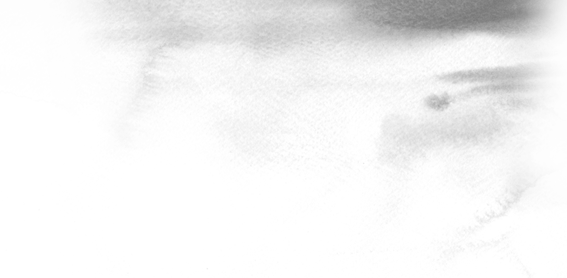
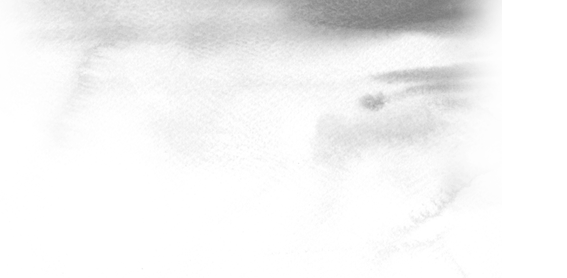
第二次bug

diff --git a/qianduan.css b/qianduan.css
@@ -48,6 +48,7 @@ html,body{
 }
 .rotate {
     animation:rotating 1.2s linear 0s normal none infinite ;
+    -webkit-animation:rotating 1.2s linear 0s normal none infinite;
 }
 
 #list li:nth-child(1){
@@ -94,14 +95,14 @@ html,body{
 
 .scene03 .plum{ width: 227px; height: 302px; opacity: 0; position: absolute; right: 0px; top: 0; background: url(images2/plum3.png) no-repeat; z-index: 38}
 #scene03 .plum{ animation: fadeIn 6.5s forwards 2.5s; -wekit-animation: fadeIn 6.5s forwards 2.5s;}
-.scene03 .mist{ position: absolute; top: 0;}
-.scene03 .mist:nth-child(1){left: 0; transition: 3s;}
-.scene03 .mist:nth-child(2){right: 0; transition: 3s;}
+.scene03 .mist{ position: absolute; top: 0; -webkit-transition: 3s; transition: 3s;}
+.scene03 .mist:nth-child(1){left: 0;}
+.scene03 .mist:nth-child(2){right: 0; text-align: right;}
 #scene03 .mist:nth-child(1){ left: -640px;}
 #scene03 .mist:nth-child(2){ right: -567px;}
-.scene03 .dropsink{ width: 221px; height: 223px; transform-origin: center; opacity: 0; left: 9px; top: 346px; position: absolute; background: url(images2/dropsink2.png) no-repeat; }
+.scene03 .dropsink{ width: 221px; height: 223px; transform-origin: center;-webkit-transform-origin: center; opacity: 0; left: 9px; top: 346px; position: absolute; background: url(images2/dropsink2.png) no-repeat; }
 #scene03 .dropsink{animation: zoomIn_s 4.5s forwards 6s;-webkit-animation: zoomIn_s 4.5s forwards 6s;}
-.scene03 .sun{ width: 100%; height: 138px; background:url(images2/sun.png) no-repeat; z-index: 35; left:580px; position: absolute;}
+.scene03 .sun{ width: 590px; height: 138px; background:url(images2/sun.png) no-repeat; z-index: 35; left:580px; position: absolute;}
 #scene03 .sun{animation: fadeInRight_s 4.5s forwards 1s; -webkit-animation: fadeInRight_s 4.5s forwards 1s;}
 .scene03 .text{ font-size: 24px;position: absolute;top: 376px; left: 292px; line-height: 1.8; width: 285px; padding: 5px; }
 #scene03 .text{animation: wobble 4.5s backwards 5s;-webkit-animation: wobble 4.5s backwards 5s;}

diff --git a/index.html b/index.html
@@ -50,7 +50,7 @@
         <li class="">
             <div class="scene03">
                 <div class="mist"><img src="images2/cloud.png"> </div><!--云雾-->
-                <div class="mist"><img src="images2/cloud2.png"></div><!--云雾-->
+                <div class="mist"><img src="images2/cloud2.png" style="width: 100%"></div><!--云雾-->
                 <div class="plum"><!--梅花-->
                     <div class="petal"></div><!--花瓣-->
                     <div class="petal"></div><!--花瓣-->
